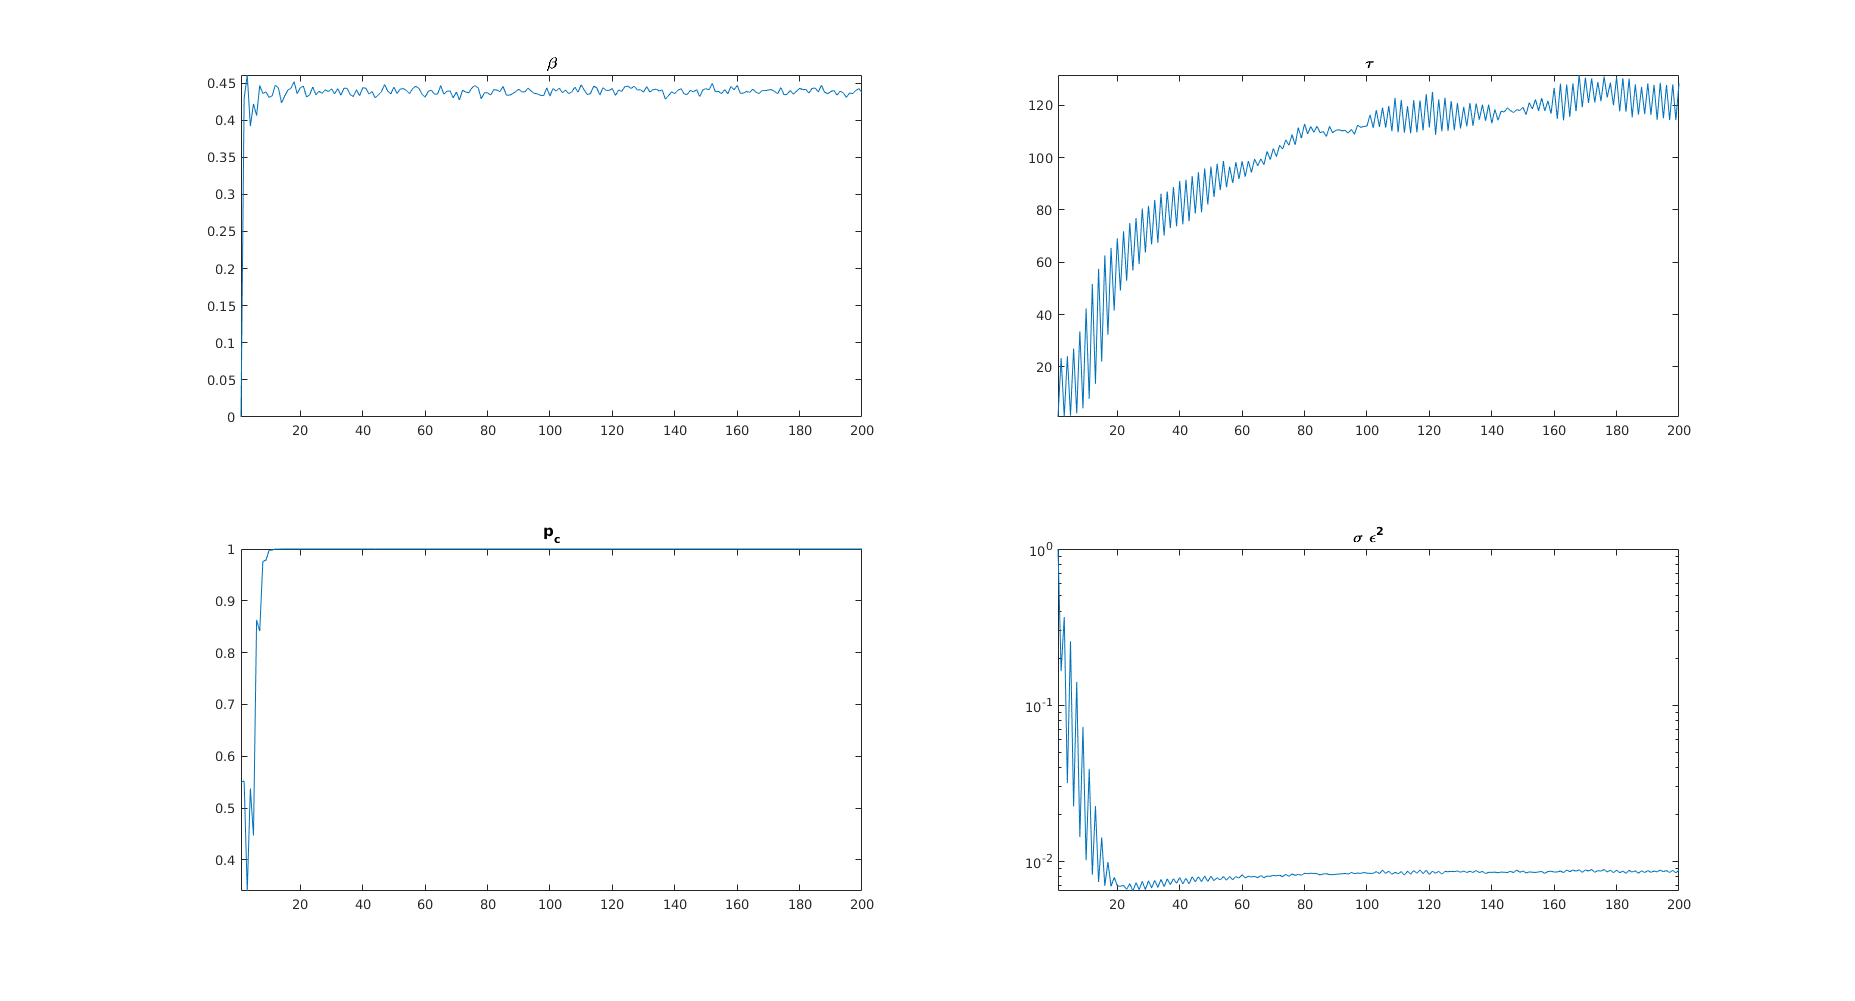
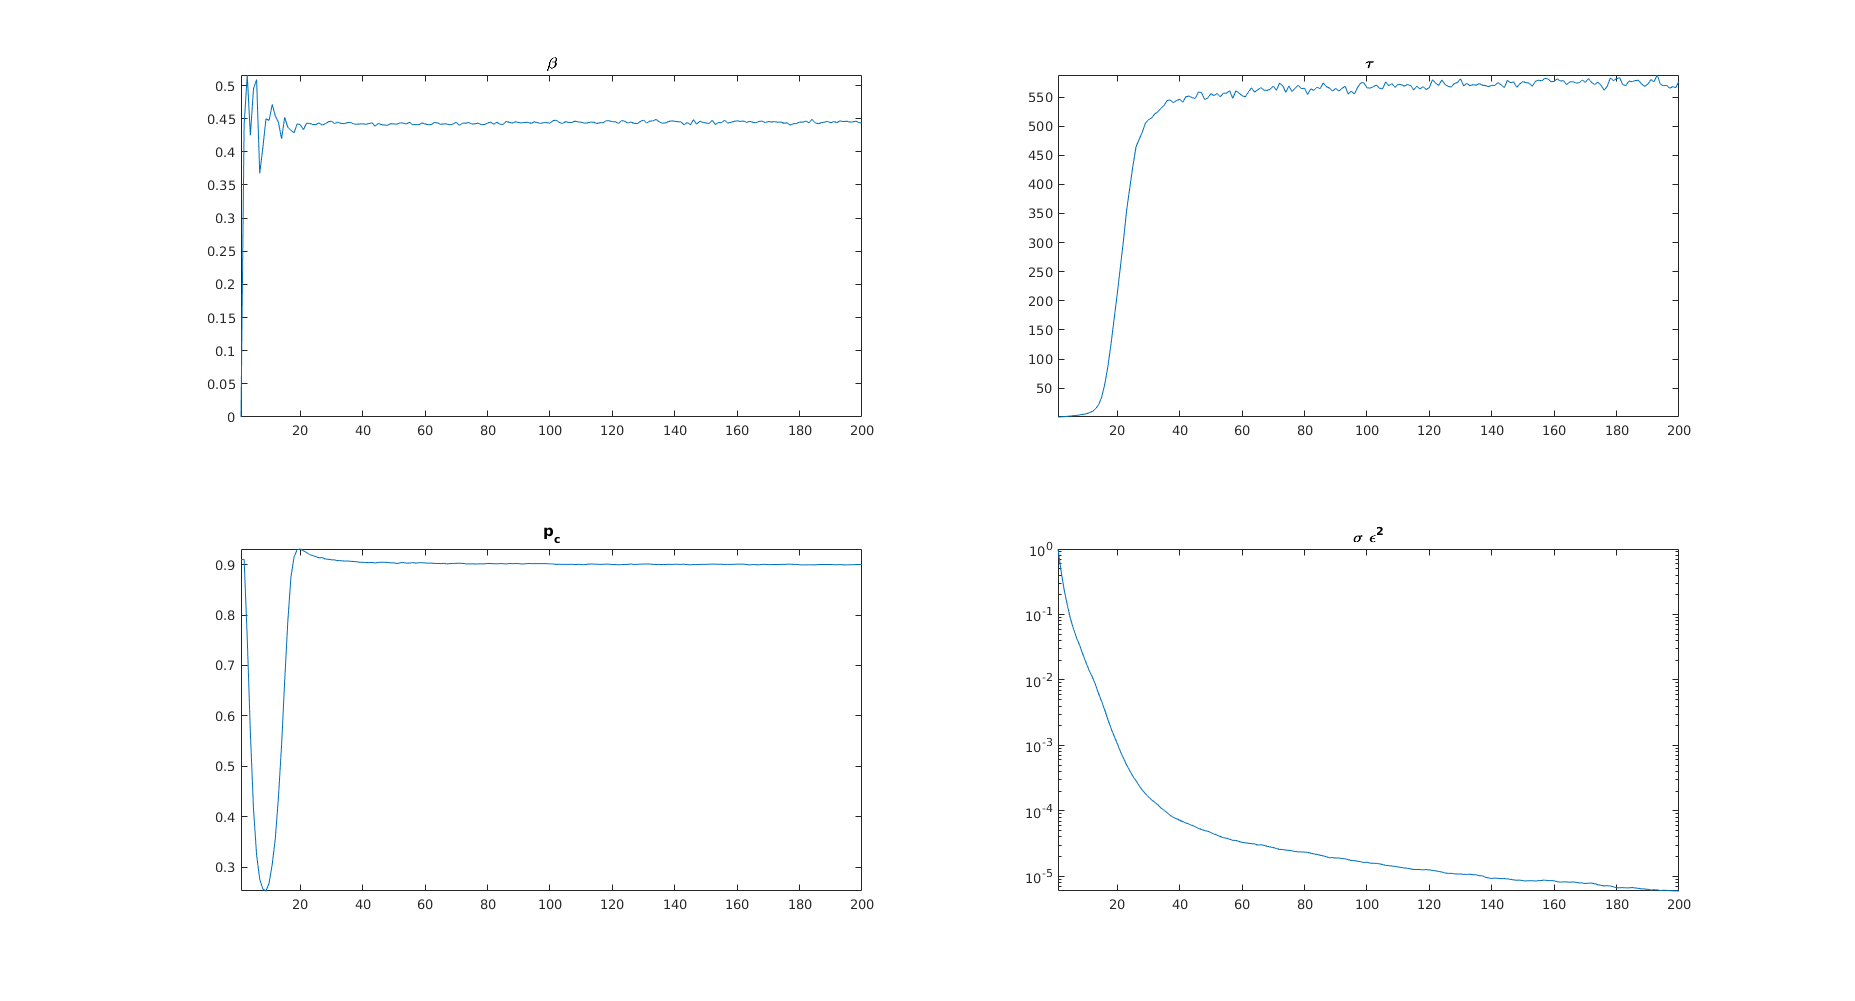
working proj3

diff --git a/ha3/proj3_main.m b/ha3/proj3_main.m
@@ -3,12 +3,13 @@
 %
 
 im = imread('titan.jpg'); im = double(im)/255;
-nn = rand(size(im)) < .1; nidx = find(nn == 1);
+badpxr = .75;
+nn = rand(size(im)) < badpxr; nidx = find(nn == 1);
 imsz = size(im);
 N = numel(im);
 
 
-NITER=200;
+NITER=400;
 k = zeros(NITER,1);
 tau = zeros(NITER,1);
 pc = zeros(NITER,1);
@@ -24,11 +25,11 @@ b = mean(Y);
 Aimg = [speye(N) ones(N,1)];
 
 % x = GMRF
-x = Y-b;
+x = Y;
 x(end+1) = 0;
 
 % Generate Q_sar
-kappa = 0.05;
+kappa = .05;
 tau(1) = rand();
 q = [0 -1 0;-1 4+kappa^2 -1;0 -1 0];
 Q_0 = gmrfprec(imsz,q);
@@ -55,28 +56,6 @@ for ii = 2:NITER,
     A = sparse(1:length(Y(good_idx)),good_idx, 1, length(Y(good_idx)), N);
     Aall = [A ones(length(Y(good_idx)),1)]; %this is A_tilde
 
-    % sample tau
-    alpha_g = (N/2)+1; 
-    beta_g = x(1:end-1)'*Q_0*x(1:end-1)/2;
-    tau(ii) = gamrnd(alpha_g,1/beta_g);
-    
-    % sample sigma_eps^2
-    n = length(good_idx);
-    alpha_ig = (n/2)-1;
-    beta_ig = sum((Y(good_idx)-Aall*x).^2)/2;
-    sigma_eps(ii) = 1/gamrnd(alpha_ig, 1/beta_ig);
-
-    % sample pc
-    %k(ii) = binornd(N,pc(ii-1));
-    k(ii) = sum(z == 0);
-    pc(ii) = betarnd(k(ii)+ab, N-k(ii)+bb);
-    
-    % determine p(z), classify..
-    pzk0 = 1/sqrt(2*pi*sigma_eps(ii-1)) * exp ((Y-Aimg*x).^2/(2*sigma_eps(ii-1)));
-    pzk1 = ones(N,1);
-    pz = (pzk0 * pc(ii))./(pzk0 * pc(ii) + pzk1 * (1-pc(ii)));
-    z = rand(size(pz)) > pz;
-
     % sample x
     Qbeta = 1e-6*speye(1);
     Q = tau(ii-1)*Q_0; Qall = blkdiag(Q,Qbeta);
@@ -100,16 +79,49 @@ for ii = 2:NITER,
 
     mu(ii) = x(end);
 
+    % sample tau
+    alpha_g = (N/2)+1; 
+    beta_g = x(1:end-1)'*Q_0*x(1:end-1)/2;
+    tau(ii) = gamrnd(alpha_g,1/beta_g);
+    
+    % sample sigma_eps^2
+    n = length(good_idx);
+    alpha_ig = (n/2)-1;
+    beta_ig = sum((Y(good_idx)-Aall*x).^2)/2;
+    sigma_eps(ii) = 1/gamrnd(alpha_ig, 1/beta_ig);
+
+    % sample pc
+    %k(ii) = binornd(N,pc(ii-1));
+    k(ii) = sum(z == 0);
+    pc(ii) = betarnd(k(ii)+ab, N-k(ii)+bb);
+    
+    % determine p(z), classify..
+    pzk0 = 1/sqrt(2*pi*sigma_eps(ii-1)) * exp (-(Y-Aimg*x).^2/(2*sigma_eps(ii-1)));
+    pzk1 = ones(N,1);
+    pz = (pzk0 * pc(ii))./(pzk0 * pc(ii) + pzk1 * (1-pc(ii)));
+    z = rand(size(pz)) > pz;
+
 end
 
 Ezy = [speye(size(Q_0,1)) ones(size(Q_0,1),1)]*Exy;
+
+widx = find(z==1);
+Ncorr = length(widx);
+Nerr = length(nidx);
+fprintf('num err %d num corr %d rate = %f\n',Nerr, Ncorr, (Ncorr/Nerr));
+
+figure, imagesc(reshape(Ezy,imsz)); colormap(gray); title(['Reconstructied Image, % corrupted = ', num2str(badpxr * 100)]);
+
+if 0
 figure, 
 subplot(221), imagesc(im); colormap(gray); title('Original Image');
 subplot(222), imagesc(reshape(Y,imsz)); colormap(gray); title('Original Img + Noise');
 subplot(223), imagesc(reshape(Ezy,imsz)); colormap (gray); title(['Reconstructed Image (\kappa = ',num2str(kappa),')']);
 subplot(224), imagesc(reshape(abs(Y-Ezy), imsz)); colormap(gray); colorbar; title('Obs - Reconstr');
+end
 figure,
 subplot(221), plot(mu), title('\beta'); axis tight;
 subplot(222), plot(tau), title('\tau'); axis tight;
 subplot(223), plot(k/N), title('p_c'); axis tight;
 subplot(224), semilogy(sigma_eps), title('\sigma \epsilon^2'); axis tight;
+
